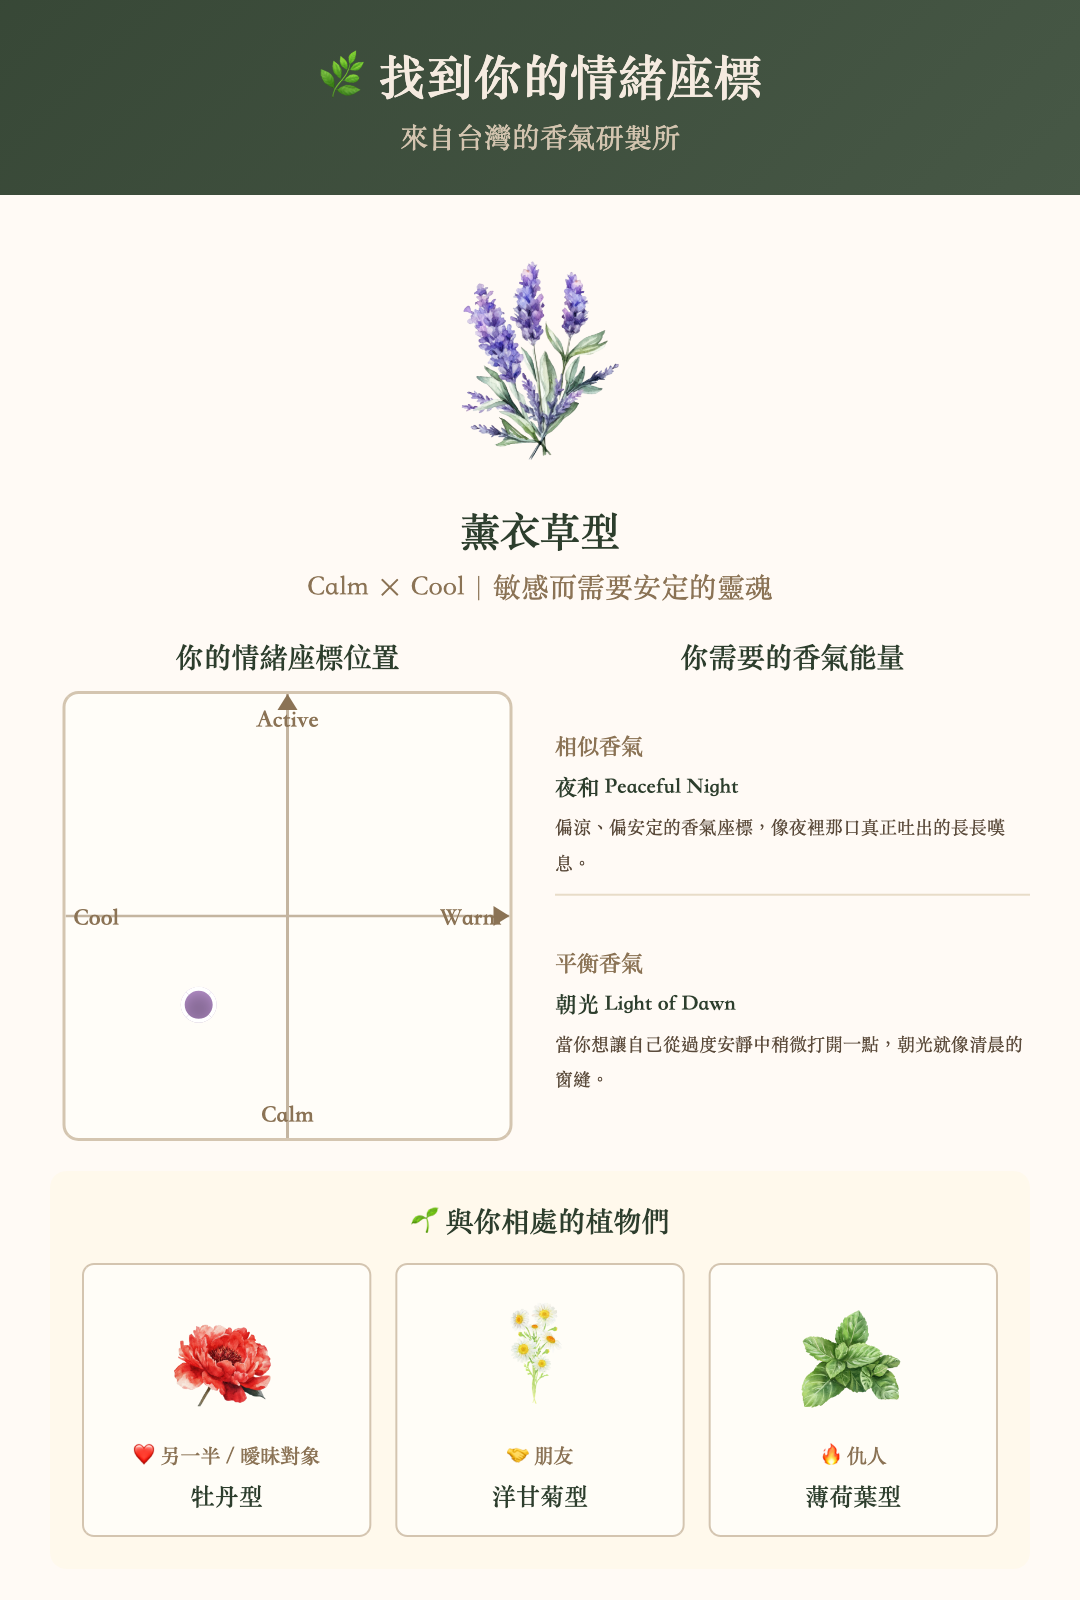
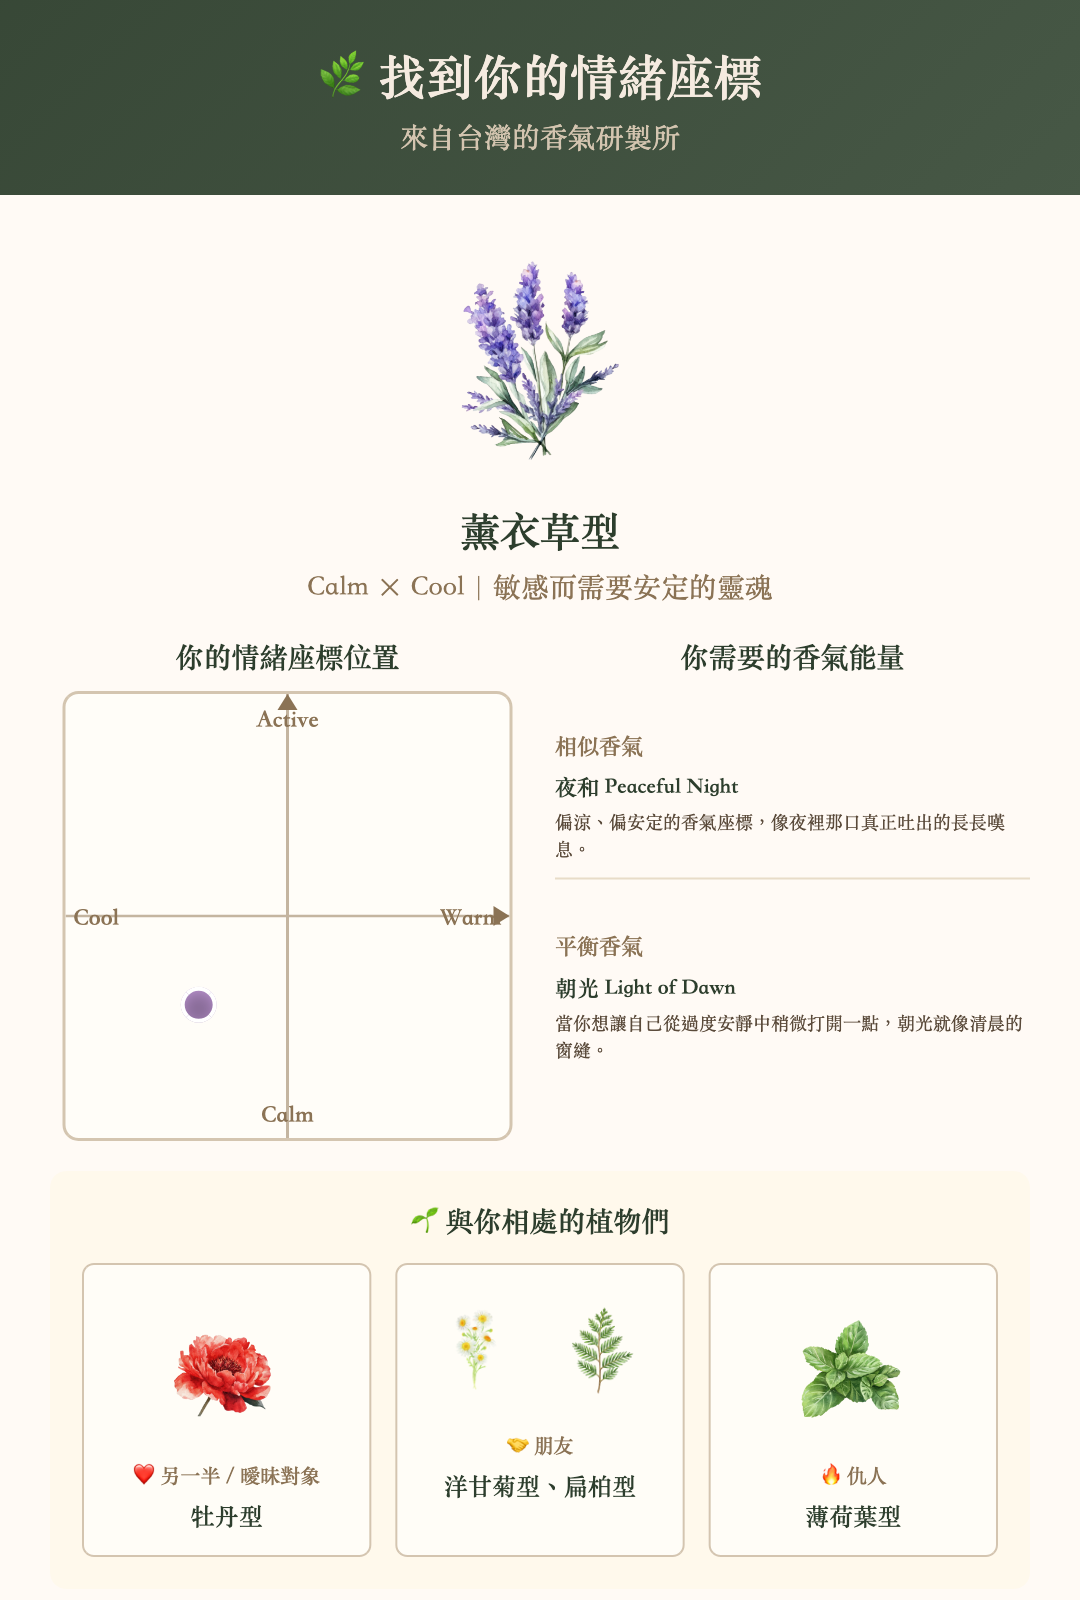
修復分享圖片中都能正確顯示兩個朋友植物

diff --git a/js/share.js b/js/share.js
@@ -2,6 +2,7 @@
  * ShareManager - 負責分享功能
  * 使用預先生成的分享圖片，不需要 html2canvas
  */
+import { getPlantImage } from './data/plants.js';
 
 export class ShareManager {
   constructor() {
@@ -26,6 +27,147 @@ export class ShareManager {
     };
 
     this.baseUrl = window.location.origin + window.location.pathname;
+  }
+
+  /**
+   * 建立 Instagram 專用分享卡片 DOM（用於圖片生成工具）
+   * @param {string} resultKey - 植物類型 key
+   * @returns {Promise<HTMLElement>} 分享卡片 DOM 元素
+   */
+  async createShareCardDOM(resultKey) {
+    // 動態載入植物資料
+    const { plantData } = await import('./data/plants.js');
+    const plant = plantData[resultKey];
+
+    // 取得當前植物的圖片路徑
+    const plantImage = getPlantImage(resultKey);
+
+    // 建立卡片容器
+    const card = document.createElement('div');
+    card.className = 'ig-share-card';
+
+    // 頭部區域
+    const header = document.createElement('div');
+    header.className = 'ig-share-card__header';
+    header.innerHTML = `
+      <h1 class="ig-share-card__title">🌿 找到你的情緒座標</h1>
+      <p class="ig-share-card__subtitle">來自台灣的香氣研製所</p>
+    `;
+    card.appendChild(header);
+
+    // 主要內容區域
+    const body = document.createElement('div');
+    body.className = 'ig-share-card__body';
+
+    // 植物資訊區域
+    const plantSection = document.createElement('div');
+    plantSection.className = 'ig-share-card__plant';
+    plantSection.innerHTML = `
+      <img src="${plantImage}" class="ig-share-card__icon" alt="${plant.name}">
+      <h2 class="ig-share-card__plant-name">${plant.name}</h2>
+      <p class="ig-share-card__plant-tagline">${plant.tagline}</p>
+    `;
+    body.appendChild(plantSection);
+
+    // 並排區域：座標 + 香氣
+    const parallelSection = document.createElement('div');
+    parallelSection.className = 'ig-share-card__parallel-section';
+
+    // 座標圖區域
+    const coordSection = document.createElement('div');
+    coordSection.className = 'ig-share-card__coord';
+    coordSection.innerHTML = `
+      <h3 class="ig-share-card__coord-title">你的情緒座標位置</h3>
+      <div class="ig-share-card__coord-map">
+        <div class="ig-share-card__axis ig-share-card__axis--vertical"></div>
+        <div class="ig-share-card__axis ig-share-card__axis--horizontal"></div>
+        <div class="ig-share-card__coord-label ig-share-card__coord-label--right">Warm</div>
+        <div class="ig-share-card__coord-label ig-share-card__coord-label--left">Cool</div>
+        <div class="ig-share-card__coord-label ig-share-card__coord-label--top">Active</div>
+        <div class="ig-share-card__coord-label ig-share-card__coord-label--bottom">Calm</div>
+        <div class="ig-share-card__coord-point" style="left: ${plant.coord.x}%; top: ${plant.coord.y}%; background-color: ${plant.color};"></div>
+      </div>
+    `;
+    parallelSection.appendChild(coordSection);
+
+    // 香氣區域
+    const scentsSection = document.createElement('div');
+    scentsSection.className = 'ig-share-card__scents';
+    scentsSection.innerHTML = `
+      <h3 class="ig-share-card__scents-title">你需要的香氣能量</h3>
+      <div class="ig-share-card__scent-item">
+        <span class="ig-share-card__scent-type">相似香氣</span>
+        <span class="ig-share-card__scent-name">${plant.scent.similar.name}</span>
+        <div class="ig-share-card__scent-text">${plant.scent.similar.text}</div>
+      </div>
+      <div class="ig-share-card__scent-item">
+        <span class="ig-share-card__scent-type">平衡香氣</span>
+        <span class="ig-share-card__scent-name">${plant.scent.balance.name}</span>
+        <div class="ig-share-card__scent-text">${plant.scent.balance.text}</div>
+      </div>
+    `;
+    parallelSection.appendChild(scentsSection);
+    body.appendChild(parallelSection);
+
+    // 關係區域（橫排三欄：另一半/朋友/仇人）
+    const relationsSection = document.createElement('div');
+    relationsSection.className = 'ig-share-card__relations';
+
+    // 處理另一半（單個植物）
+    const partnerPlants = plant.relationships.partner.plants;
+    const partnerName = partnerPlants.map(key => plantData[key]?.name || key).join('、');
+    const partnerImagesHtml = partnerPlants.map(key =>
+      `<img src="${getPlantImage(key)}" class="ig-share-card__relation-image" alt="${plantData[key]?.name || key}">`
+    ).join('');
+
+    // 處理朋友（可能有多個植物）
+    const friendPlants = plant.relationships.friend.plants;
+    const friendName = friendPlants.map(key => plantData[key]?.name || key).join('、');
+    const friendImagesHtml = friendPlants.map(key =>
+      `<img src="${getPlantImage(key)}" class="ig-share-card__relation-image ${friendPlants.length > 1 ? 'multi-plant' : ''}" alt="${plantData[key]?.name || key}">`
+    ).join('');
+
+    // 處理仇人（單個植物）
+    const enemyPlants = plant.relationships.enemy.plants;
+    const enemyName = enemyPlants.map(key => plantData[key]?.name || key).join('、');
+    const enemyImagesHtml = enemyPlants.map(key =>
+      `<img src="${getPlantImage(key)}" class="ig-share-card__relation-image" alt="${plantData[key]?.name || key}">`
+    ).join('');
+
+    relationsSection.innerHTML = `
+      <h3 class="ig-share-card__relations-title">🌱 與你相處的植物們</h3>
+      <div class="ig-share-card__relations-grid">
+        <div class="ig-share-card__relation-item">
+          <div class="ig-share-card__relation-images">${partnerImagesHtml}</div>
+          <span class="ig-share-card__relation-label">❤ 另一半 / 曖昧對象</span>
+          <span class="ig-share-card__relation-name">${partnerName}</span>
+        </div>
+        <div class="ig-share-card__relation-item">
+          <div class="ig-share-card__relation-images">${friendImagesHtml}</div>
+          <span class="ig-share-card__relation-label">🤝 朋友</span>
+          <span class="ig-share-card__relation-name">${friendName}</span>
+        </div>
+        <div class="ig-share-card__relation-item">
+          <div class="ig-share-card__relation-images">${enemyImagesHtml}</div>
+          <span class="ig-share-card__relation-label">🔥 仇人</span>
+          <span class="ig-share-card__relation-name">${enemyName}</span>
+        </div>
+      </div>
+    `;
+    body.appendChild(relationsSection);
+
+    card.appendChild(body);
+
+    // 頁尾 CTA 區域
+    const footer = document.createElement('div');
+    footer.className = 'ig-share-card__footer';
+    footer.innerHTML = `
+      <p class="ig-share-card__url">nw7551762.github.io/<br>emotion-coord-quiz</p>
+      <p class="ig-share-card__cta">來測測看你的情緒座標！</p>
+    `;
+    card.appendChild(footer);
+
+    return card;
   }
 
   /**

diff --git a/css/share-card.css b/css/share-card.css
@@ -246,6 +246,16 @@
   gap: 10px;
 }
 
+/* 植物圖片容器 - 支援多張圖片橫排 */
+.ig-share-card__relation-images {
+  display: flex;
+  justify-content: center;
+  align-items: center;
+  gap: 12px;
+  margin: 10px 0;
+  flex-wrap: wrap;
+}
+
 /* 植物圖片樣式 */
 .ig-share-card__relation-image {
   width: 140px;
@@ -258,6 +268,12 @@
   border: none;
   box-shadow: none;
   background: transparent;
+}
+
+/* 多個植物時縮小圖片 */
+.ig-share-card__relation-image.multi-plant {
+  width: 110px;
+  height: 110px;
 }
 
 
